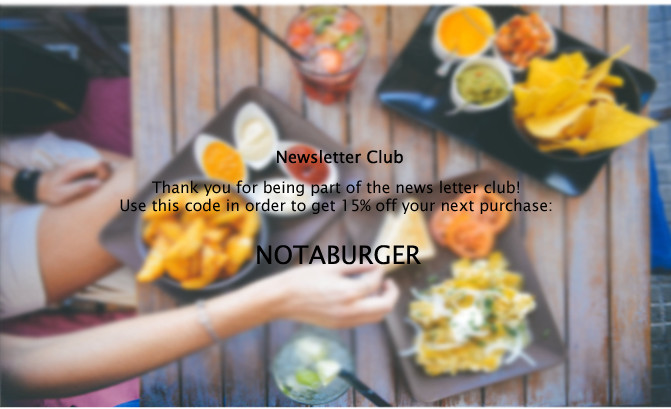
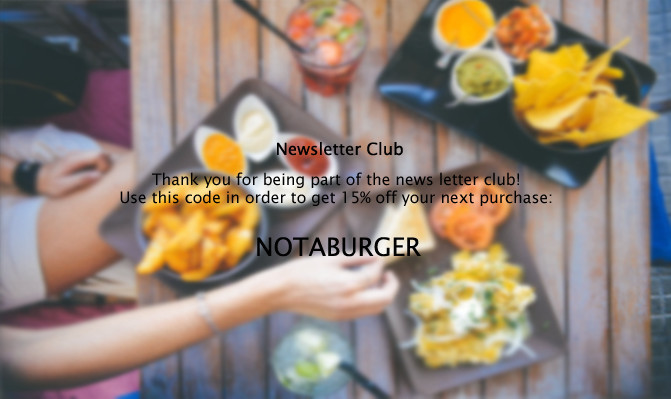
Added a few CSS and changed the blur on the newsletterclub.jpg

diff --git a/BubgerEmail/index.html b/BubgerEmail/index.html
@@ -5,6 +5,126 @@
   <meta charset="utf-8">
   <meta http-equiv="X-UA-Compatible" content="IE=edge" />
   <meta name="viewport" content="width=device-width, initial-scale=1" />
+  <style type="text/css">
+    body {
+      margin: 0!important;
+      padding: 15px;
+      background-color: #fff;
+    }
+    .wrapper {
+      width: 100%;
+      table-layout: fixed;
+    }
+    .inner-wrapper {
+      width: 100%;
+      background-color: #eee;
+      max-width: 670px;
+      margin: 0 auto;
+    }
+    table {
+      border-spacing: 0;
+      font-family: sans-serif;
+      color: #727f80;
+    }
+    .outer-table {
+      width: 100%;
+      max-width: 670px;
+      margin: 0 auto;
+      background-color: #fff;
+    }
+    td {
+      padding: 0;
+    }
+    .header {
+      background-color: #c2c1c1;
+      border-bottom: 3px solid #F4AC45;
+    }
+    p {
+      margin: 0;
+    }
+    .header p {
+      text-align: center;
+      padding: 1%;
+      font-weight: 500;
+      font-size: 11px;
+      text-transform: uppercase;
+    }
+    a {
+      color: #f1f1f1;
+      text-decoration: none;
+    }
+    /* End Outer Table 1 */
+    .main-table-first {
+      width: 100%;
+      max-width: 610px;
+      margin: 0 auto;
+      background-color: #fff;
+      border-radius: 6px;
+      margin-top: 25px;
+    }
+    /* Start logo section */
+    .one-column {
+      text-align: center;
+      font-size: 0;
+      padding: 5px 0 10px 0;
+    }
+    .one-column .section {
+      width: 100%;
+      max-width: 300px;
+      display: inline-block;
+      vertical-align: top;
+    }
+    .one-column .content {
+      font-size: 16px;
+      line-height: 20px;
+      text-align: justify;
+    }
+    .content {
+      width: 100%;
+      padding-top: 20px;
+    }
+    .center {
+      display: table;
+      margin: 0 auto;
+    }
+    img {
+      border: 0;
+    }
+    img .logo {
+      float: left;
+      margin-left: 5%;
+      max-width: 300px !important;
+    }
+    #callout {
+      float: right;
+      margin: 4% 5% 2% 0;
+      height: auto;
+      overflow: hidden;
+    }
+    #callout img {
+      max-width: 50px;
+    }
+    #callout .social {
+      display: inline-flex;
+    }
+    .social {
+      list-style-type: none;
+      margin-top: 1%;
+      padding: 0;
+    }
+    .social li {
+      margin-left: 10px;
+      margin-right: 10px;
+    }
+    .social li img {
+      max-width: 15px;
+      margin-bottom: 0;
+      padding-bottom: 0
+    }
+
+    /* Start outer table image, text, and button */
+
+  </style>
 </head>
 
 <body>
@@ -12,14 +132,14 @@
     <div class="inner-wrapper">
       <table class="outer-table">
         <tr>
-          <td>
+          <td class="header">
             <p><a href="#">Click here to view this email in your browser</a></p>
           </td>
         </tr>
       </table>
-      <table class="first-table">
+      <table class="main-table-first">
         <tr>
-          <td class="header">
+          <td class="one-column">
             <div class="section">
               <table width="100%">
                 <tr>
@@ -215,9 +335,13 @@
               <tr>
                 <td>
                   <img src="./img/logo.png" />
-                  <a href="#"><img src="./img/twitter.png" /></a>
-                  <a href="#"><img src="./img/instagram.png" /></a>
-                  <a href="#"><img src="./img/snapchat.png" /></a>
+                  <div id="callout">
+                    <ul class="social">
+                      <li><a href="#"><img src="./img/twitter.png" /></a></li>
+                      <li><a href="#"><img src="./img/instagram.png" /></a></li>
+                      <li><a href="#"><img src="./img/snapchat.png" /></a></li>
+                    </ul>
+                  </div>
                   <p class="footer">
                     9001 Food Street, Some City, CA 11337 <br />
                     Phone: 1 (234) 567 8910 <br />
